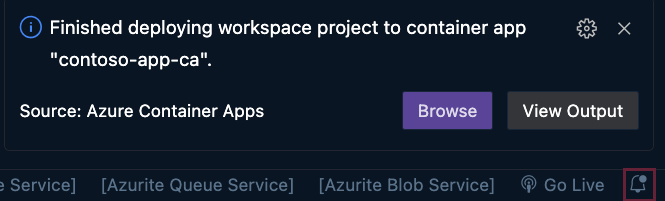
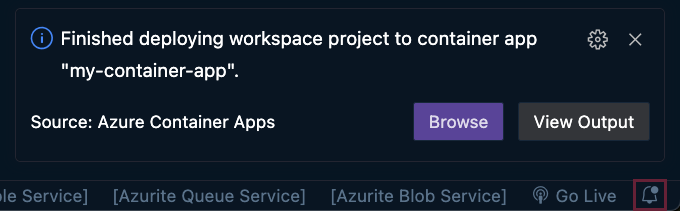
Alternate walkthrough entry-point & update images to match new flow (#654)

diff --git a/src/commands/registerCommands.ts b/src/commands/registerCommands.ts
@@ -43,6 +43,7 @@ import { addWorkspaceProjectWalkthrough } from './walkthrough/addWorkspaceProjec
 import { azureSignInWalkthrough } from './walkthrough/azureSignIn';
 import { cleanUpResourcesWalkthrough } from './walkthrough/cleanUpResources';
 import { deployWorkspaceProjectWalkthrough } from './walkthrough/deployWorkspaceProject';
+import { gettingStartedInternalWalkthrough } from './walkthrough/gettingStartedInternal';
 
 export function registerCommands(): void {
     // managed environments
@@ -109,6 +110,7 @@ export function registerCommands(): void {
     registerCommand('containerApps.openAcrBuildLogs', openAcrBuildLogs);
 
     // walkthrough
+    registerCommand('containerApps.walkthrough.gettingStarted.internal', gettingStartedInternalWalkthrough);
     registerCommand('containerApps.walkthrough.addWorkspaceProject', addWorkspaceProjectWalkthrough);
     registerCommand('containerApps.walkthrough.azureSignIn', azureSignInWalkthrough);
     registerCommand('containerApps.walkthrough.deployWorkspaceProject', deployWorkspaceProjectWalkthrough);

diff --git a/src/commands/walkthrough/gettingStartedInternal.ts b/src/commands/walkthrough/gettingStartedInternal.ts
@@ -1,0 +1,10 @@
+/*---------------------------------------------------------------------------------------------
+ *  Copyright (c) Microsoft Corporation. All rights reserved.
+ *  Licensed under the MIT License. See License.txt in the project root for license information.
+ *--------------------------------------------------------------------------------------------*/
+
+import { commands } from 'vscode';
+
+export async function gettingStartedInternalWalkthrough(): Promise<void> {
+    await commands.executeCommand('workbench.action.openWalkthrough', 'ms-azuretools.vscode-azurecontainerapps#containerApps.walkthrough.gettingStarted', false);
+}

diff --git a/resources/walkthrough/create-and-deploy.md b/resources/walkthrough/create-and-deploy.md
@@ -3,8 +3,9 @@
 | Select subscription | Select the Azure subscription you want to use. |
 | Select a container apps environment | Select: <b>Create new container apps environment</b>. You will only be asked this question if you have existing container apps environments. |
 | Confirm resources to create | Select: <b>Continue</b> |
-| Enter a name for the new container apps resource(s) | Enter: <b>contoso-app</b> |
+| Enter a name for the new container app environment resources | Enter: <b>my-container-env</b> |
+| Enter a name for the new container app | Enter: <b>my-container-app</b> |
 | Provide a source code directory for upload | Select: <b>./src</b> |
 | Select a location | Select an Azure region close to you. |
 | Save deployment configuration | Select: <b>Save</b> |
-| <i>On completion<i>: | <details><summary>View Save Configuration: </summary><p>`.vscode/settings.json`:</p><img src="./images/dwp-saved-settings.png"></details> <details><summary>View Activity Log: </summary><img src="./images/dwp-activity-log.png"></details> <details><summary>View Deployment: </summary><img src="./images/dwp-popup.png"></details> <details><summary>View Azure Resources Tree: </summary><img src="./images/dwp-resource-tree.png"></details> |
+| <i>On completion<i>: | <details><summary>View Save Configuration: </summary><p>`.vscode/settings.json`:</p><img src="./images/dwp-saved-settings.png"></details> <details><summary>View Activity Log: </summary><img src="./images/dwp-activity-log.png"></details> <details><summary>View Deployment: </summary><img src="./images/dwp-popup.png"></details> <details><summary>View Azure Resources Tree (Resource Type): </summary><img src="./images/dwp-tree-resource-type.png"></details> <details><summary>View Azure Resources Tree (Resource Group): </summary><img src="./images/dwp-tree-resource-group.png"></details> |

diff --git a/resources/walkthrough/clean-up-resources.md b/resources/walkthrough/clean-up-resources.md
@@ -1,5 +1,5 @@
 | Prompt | Value |
 |--------|-------|
 | Select subscription | Select the Azure subscription used in the previous step. |
-| Select resource group(s) | Select <b>contoso-app-rg</b> and press enter. |
+| Select resource group(s) | Select <b>my-container-env</b> and press enter. |
 | Confirm resources to delete | Select: <b>Delete</b> |
